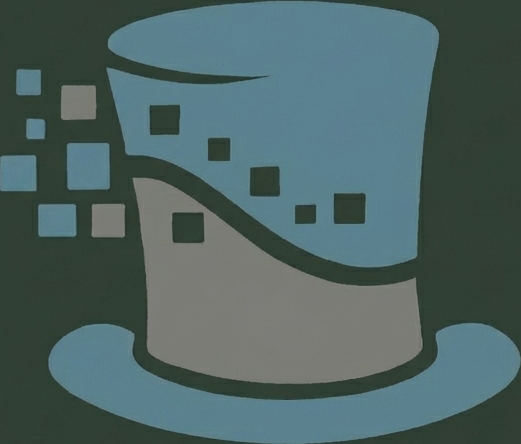
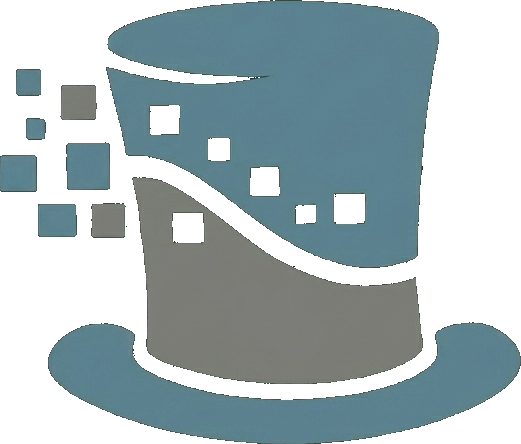
Fix Booking CTA gray space on mobile using hybrid background approach

diff --git a/src/components/Footer.tsx b/src/components/Footer.tsx
@@ -1,4 +1,4 @@
-import hatMask from '../assets/hat-mask.png';
+import { HatwebsWatermark } from './HatwebsWatermark';
 
 const Footer = () => {
     const currentYear = new Date().getFullYear();
@@ -77,33 +77,7 @@ const Footer = () => {
                     </div>
 
                     <div className="flex justify-center mt-8">
-                        <a
-                            href="https://hatwebs.com"
-                            target="_blank"
-                            rel="noopener noreferrer"
-                            className="inline-flex items-center justify-center gap-0 opacity-60 hover:opacity-100 transition-opacity duration-300 group"
-                            aria-label="Made by Hatwebs"
-                        >
-                            <span className="text-white/40 text-[10px] uppercase tracking-widest font-medium mr-1.5">
-                                Website by
-                            </span>
-
-                            <img
-                                src={hatMask}
-                                alt="Hatwebs Logo"
-                                className="h-7 w-auto object-contain opacity-60 group-hover:opacity-100 transition-opacity duration-300 mr-1"
-                            />
-
-                            {/* Text Part */}
-                            <div className="flex flex-col items-start leading-none gap-0 subpixel-antialiased transform-gpu">
-                                <span className="text-lg font-bold text-[#607D8B] tracking-tight group-hover:text-[#90A4AE] transition-colors">
-                                    Hatwebs
-                                </span>
-                                <span className="text-[7px] font-bold tracking-[0.2em] text-[#546E7A] uppercase group-hover:text-[#78909C] transition-colors -mt-1">
-                                    Digital Design
-                                </span>
-                            </div>
-                        </a>
+                        <HatwebsWatermark />
                     </div>
                 </div>
             </div>

diff --git a/src/components/HatwebsWatermark.tsx b/src/components/HatwebsWatermark.tsx
@@ -1,0 +1,38 @@
+import hatMask from '../assets/hat-mask.png';
+
+export const HatwebsWatermark = () => {
+    return (
+        <a
+            href="https://hatwebs.com"
+            target="_blank"
+            rel="noopener noreferrer"
+            className="inline-flex items-center justify-center gap-0 opacity-60 hover:opacity-100 transition-opacity duration-300 group"
+            aria-label="Made by Hatwebs"
+        >
+            <span className="text-white/40 text-[10px] uppercase tracking-widest font-medium mr-1.5">
+                Website by
+            </span>
+
+            {/* 
+                Transparent Hat Logo 
+                Note: The image source 'hat-mask.png' should be a transparent PNG 
+                so it automatically adapts to any footer background color.
+            */}
+            <img
+                src={hatMask}
+                alt="Hatwebs Logo"
+                className="h-7 w-auto object-contain opacity-60 group-hover:opacity-100 transition-opacity duration-300 mr-1"
+            />
+
+            {/* Text Part */}
+            <div className="flex flex-col items-start leading-none gap-0 subpixel-antialiased transform-gpu">
+                <span className="text-lg font-bold text-[#607D8B] tracking-tight group-hover:text-[#90A4AE] transition-colors">
+                    Hatwebs
+                </span>
+                <span className="text-[7px] font-bold tracking-[0.2em] text-[#546E7A] uppercase group-hover:text-[#78909C] transition-colors -mt-1">
+                    Digital Design
+                </span>
+            </div>
+        </a>
+    );
+};

diff --git a/src/sections/BookingCTA.tsx b/src/sections/BookingCTA.tsx
@@ -11,9 +11,18 @@ const BookingCTA = () => {
     ];
 
     return (
-        <section id="book" className="relative z-0 py-24 md:py-32" style={{ clipPath: 'inset(0)' }}>
-            {/* Background Image - Fixed & Zoomed (Clip-Path Parallax) */}
-            <div className="fixed inset-0 -z-20 w-full h-full">
+        <section id="book" className="relative z-0 py-24 md:py-32 overflow-hidden">
+            {/* Background Image - Absolute & Static (Mobile) */}
+            <div
+                className="absolute inset-0 -z-20 w-full h-full bg-fixed bg-center bg-no-repeat md:hidden"
+                style={{
+                    backgroundImage: "url('/dog1.png')",
+                    backgroundSize: 'auto 150%'
+                }}
+            />
+
+            {/* Background Image - Absolute & Zoomed (Desktop) */}
+            <div className="hidden md:block absolute inset-0 -z-20 w-full h-full">
                 <img
                     src="/dog1.png"
                     alt="Background"

diff --git a/index.html b/index.html
@@ -19,6 +19,9 @@
   <meta property="og:description"
     content="Personal, loving pet care in a real home environment. Licensed, certified, and insured pet sitting and dog walking on Florida's Space Coast." />
   <meta property="og:type" content="website" />
+  <meta property="og:image" content="/og-image.png" />
+  <meta property="og:image:width" content="1200" />
+  <meta property="og:image:height" content="630" />
 
   <!-- Google Fonts - Inter -->
   <link rel="preconnect" href="https://fonts.googleapis.com">
